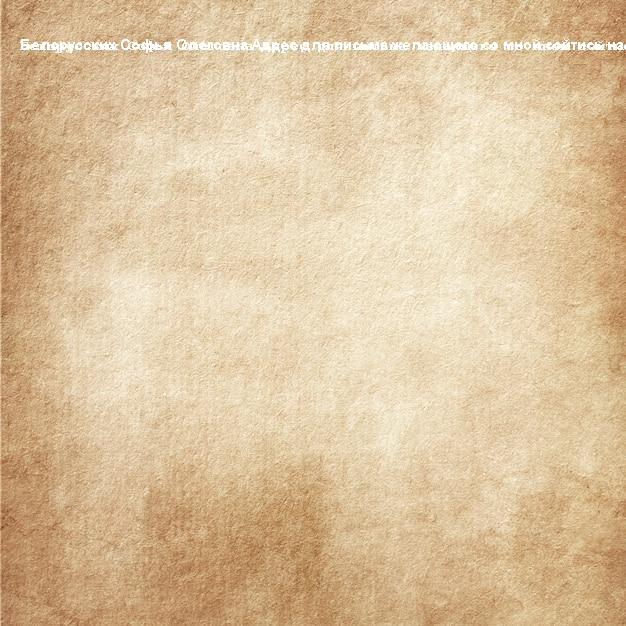
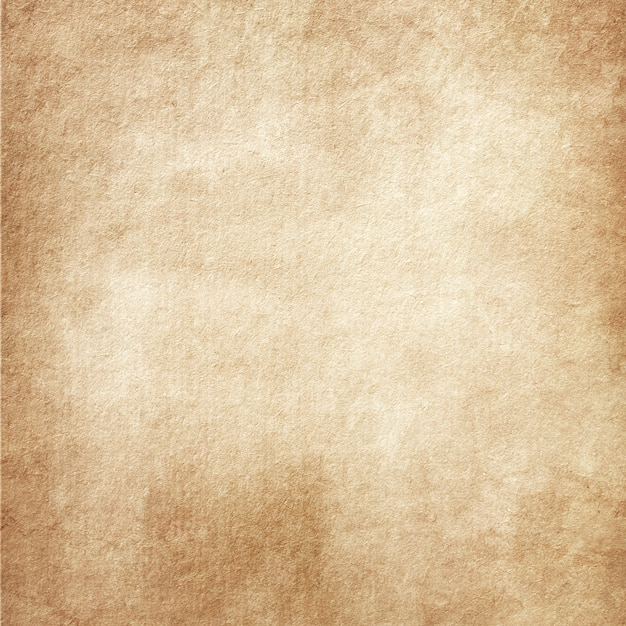
Изменение работы с фото

Changed region(s): [[0.0304, 0.0607, 1.0, 0.0911]]

diff --git a/prerevolutionary-tinder-tgbot-client/src/main/java/ru/liga/tgbot/service/ProfileService.java b/prerevolutionary-tinder-tgbot-client/src/main/java/ru/liga/tgbot/service/ProfileService.java
@@ -1,5 +1,6 @@
 package ru.liga.tgbot.service;
 
+
 import org.springframework.beans.factory.annotation.Autowired;
 import org.springframework.beans.factory.annotation.Value;
 import org.springframework.http.HttpEntity;
@@ -7,7 +8,6 @@ import org.springframework.http.HttpHeaders;
 import org.springframework.http.MediaType;
 import org.springframework.stereotype.Service;
 import ru.liga.tgbot.config.RestTemplateConfig;
-import ru.liga.tgbot.dto.TextToPictureDTO;
 import ru.liga.tgbot.model.PreReformText;
 
 import javax.imageio.ImageIO;
@@ -18,8 +18,8 @@ import java.io.File;
 import java.io.IOException;
 import java.net.URI;
 import java.net.URISyntaxException;
-import java.nio.file.Files;
-import java.nio.file.Paths;
+import java.util.ArrayList;
+import java.util.List;
 
 @Service
 public class ProfileService {
@@ -54,22 +54,78 @@ public class ProfileService {
      * @throws URISyntaxException
      * @throws IOException
      */
-    public void profileToPicture(String text) throws IOException {
-        //HttpHeaders headers = getHttpHeaders();
-        //URI url = new URI(profileToPictureUrl);
-        //TextToPictureDTO objEmp = new TextToPictureDTO(text);
-        //HttpEntity<TextToPictureDTO> requestEntity = new HttpEntity<>(objEmp, headers);
-
+    public ByteArrayOutputStream profileToPicture(String text) throws IOException {
         File file = new File(filePath);
         BufferedImage image = ImageIO.read(file);
-        Graphics2D g = image.createGraphics();
-        g.setColor(Color.BLACK);
-        g.setFont(new Font("Old Standard TT", Font.BOLD, 15));
-        g.drawString(text, 20, 50);
+        Graphics2D g2d = image.createGraphics();
+        g2d.setFont(new Font("Old Standard TT", Font.BOLD, 15));
+
+
+        int width = image.getWidth(); // ширина картинки
+        int height = image.getHeight(); // высота картинки
+
+//        Font font = g2d.getFont();
+//        FontMetrics metrics = g2d.getFontMetrics(font);
+//
+//        int fontSize = 100; // начальный размер шрифта
+//        while (true) {
+//            Font newFont = font.deriveFont((float) fontSize);
+//            metrics = g2d.getFontMetrics(newFont);
+//
+//            int lineHeight = metrics.getHeight();
+//            String[] lines = text.split("\n");
+//
+//            int textHeight = lines.length * lineHeight;
+//            int maxWidth = 0;
+//            for (String line : lines) {
+//                int lineWidth = metrics.stringWidth(line);
+//                if (lineWidth > maxWidth) {
+//                    maxWidth = lineWidth;
+//                }
+//            }
+//
+//            if (maxWidth > width || textHeight > height) {
+//                fontSize--;
+//            } else {
+//                //g2d.setFont(newFont);
+//                g2d.setFont(new Font("Old Standard TT", Font.BOLD, fontSize));
+//                break;
+//            }
+//        }
+
+
+        Font font = g2d.getFont();
+        FontMetrics metrics = g2d.getFontMetrics(font);
+
+
+        List<String> lines = new ArrayList<>();
+        String[] words = text.split("\\s+");
+        String currentLine = "";
+        for (String word : words) {
+            if (metrics.stringWidth(currentLine + " " + word) <= width - 20) {
+                currentLine += " " + word;
+            } else {
+                lines.add(currentLine.trim());
+                currentLine = word;
+            }
+        }
+        lines.add(currentLine.trim());
+
+        int x = 20;
+        int y = 50;
+        for (String line : lines) {
+            g2d.setColor(Color.BLACK);
+            g2d.setFont(new Font("Old Standard TT", Font.BOLD, 15));
+            g2d.drawString(line, x, y + metrics.getAscent());
+            y += metrics.getHeight();
+        }
+
+        g2d.dispose(); // освобождение ресурсов Graphics2D
+
         ByteArrayOutputStream byteArrayOutputStream = new ByteArrayOutputStream();
         ImageIO.write(image, "jpg", byteArrayOutputStream);
 
-        Files.write(Paths.get(filePath), byteArrayOutputStream.toByteArray());
+        return byteArrayOutputStream;
     }
 
     private HttpHeaders getHttpHeaders() {

diff --git a/prerevolutionary-tinder-tgbot-client/src/main/java/ru/liga/tgbot/service/SenderPhoto.java b/prerevolutionary-tinder-tgbot-client/src/main/java/ru/liga/tgbot/service/SenderPhoto.java
@@ -12,9 +12,9 @@ import org.telegram.telegrambots.meta.api.objects.replykeyboard.buttons.InlineKe
 import ru.liga.tgbot.cache.PersonCache;
 import ru.liga.tgbot.dto.PersonDTO;
 import ru.liga.tgbot.enums.Action;
-import ru.liga.tgbot.model.PreReformText;
 
-import java.io.File;
+import java.io.ByteArrayInputStream;
+import java.io.ByteArrayOutputStream;
 import java.io.IOException;
 import java.net.URISyntaxException;
 import java.util.List;
@@ -79,9 +79,8 @@ public class SenderPhoto {
      */
     private InputFile getInputFile(String text) throws URISyntaxException, IOException {
         //PreReformText preReformText = profileService.translateToOldSlavonic(text);
-        profileService.profileToPicture(/*preReformText.getText()*/text);
-        File file = new File(filePath);
-        return new InputFile(file);
+        ByteArrayOutputStream byteArrayOutputStream = profileService.profileToPicture(/*preReformText.getText()*/text);
+        return new InputFile(new ByteArrayInputStream(byteArrayOutputStream.toByteArray()), "profile");
     }
 
     /**

diff --git a/prerevolutionary-tinder-tgbot-client/src/main/java/ru/liga/tgbot/service/PersonService.java b/prerevolutionary-tinder-tgbot-client/src/main/java/ru/liga/tgbot/service/PersonService.java
@@ -50,7 +50,6 @@ public class PersonService {
      */
     public PersonDTO getPerson(Long userId) throws URISyntaxException {
         URI url = new URI(personsUrl + userId);
-      //  return new PersonDTO(new Person(1L, 5L, Sex.FEMALE,"Белорусских Софья Олеговна", new StringBuilder("Адрес для письма желающего со мной сойтись на кратком жизненном пути нашего человеческого организма в росте движения безпредельной вечности."), Sex.ALL, BotState.DEF, 1, 1, null));
 
         return restTemplateConfig.getRestTemplate().getForObject(url, PersonDTO.class);
     }
